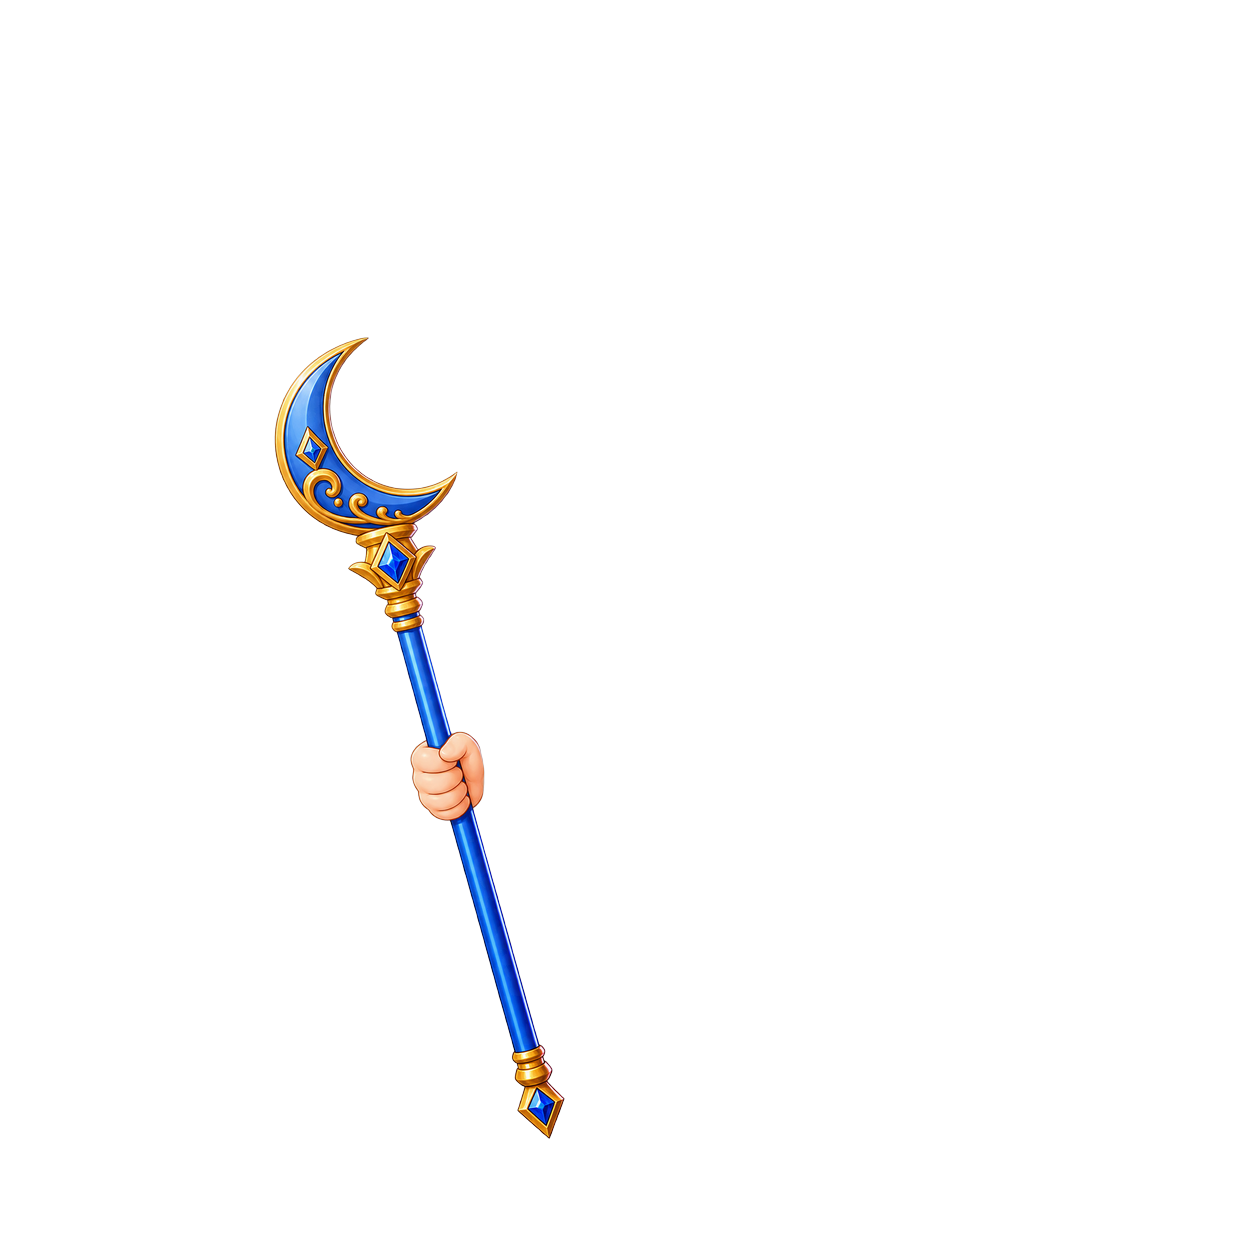
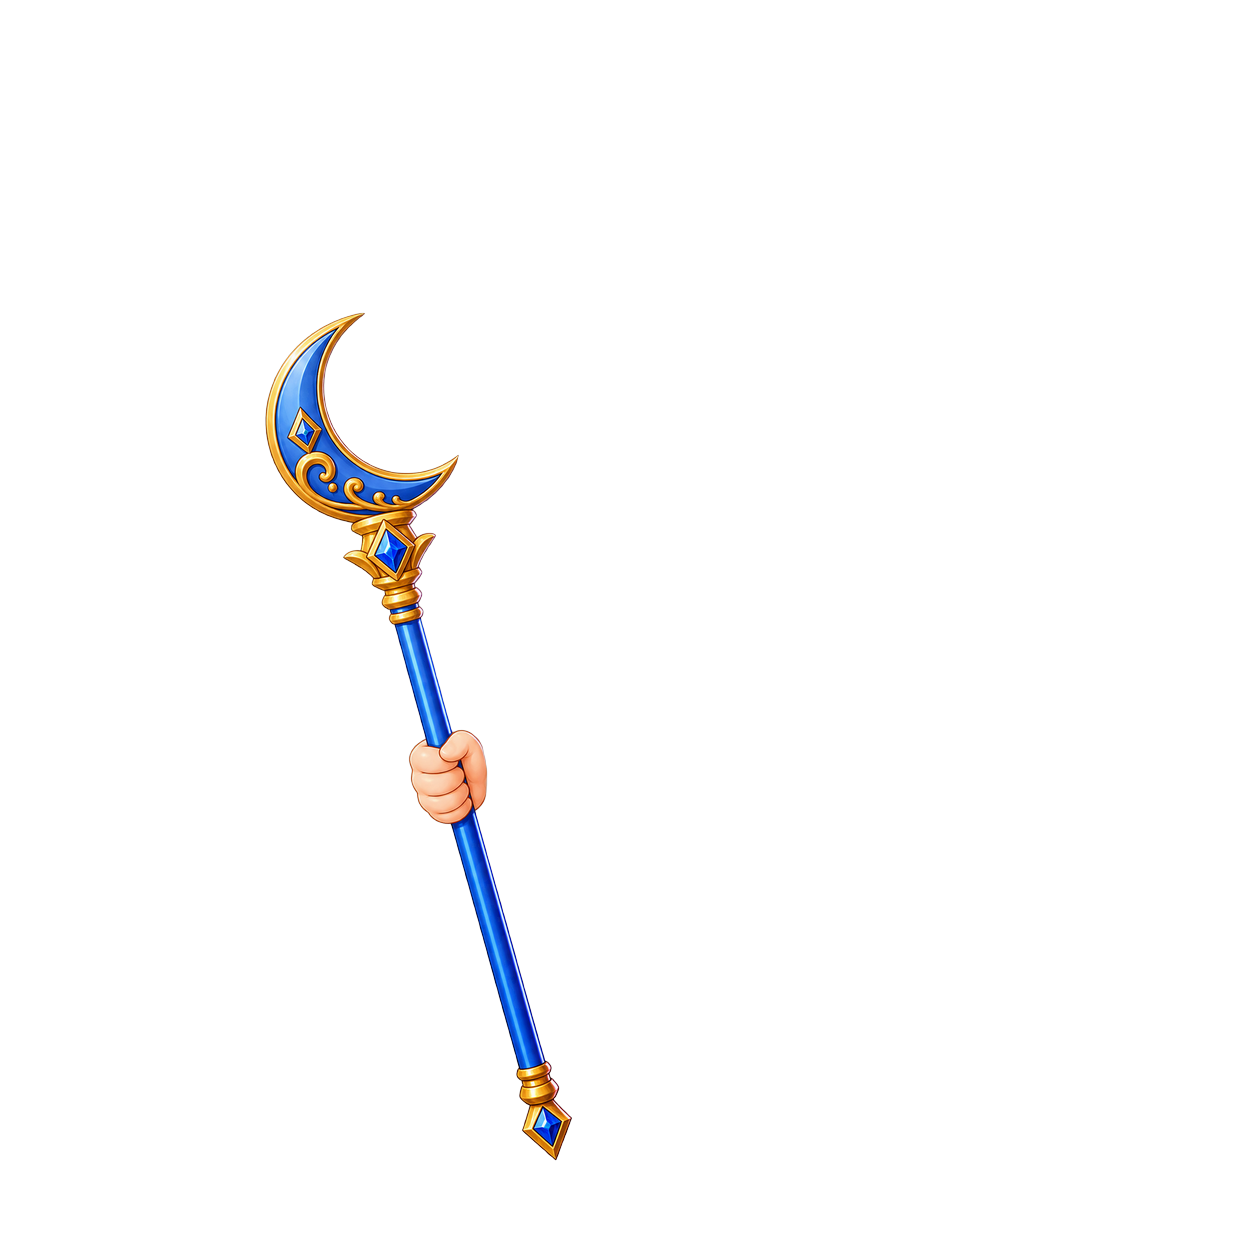
Register approved in-hand sword staff and scepter

Changed region(s): [[0.1866, 0.2488, 0.3732, 0.5287], [0.311, 0.5287, 0.4043, 0.7464], [0.4043, 0.7464, 0.4665, 0.933]]

diff --git a/scripts/register_in_hand_objects.py b/scripts/register_in_hand_objects.py
@@ -109,6 +109,17 @@ ROUND2_REFIT_0927 = {
 }
 QA_0927 = {"decided_on": "2026-09-27", "qa_report": "docs/qa/hand_objects_in_hand_2026-09-27.md",
            "qa_composite": "docs/qa/hand_objects_in_hand_2026-09-27.png"}
+QA_PASS_0927 = {
+    "decided_on": "2026-09-27",
+    "qa_report": "docs/qa/hand_objects_in_hand_2026-09-27-passing.md",
+    "qa_composite": "docs/qa/hand_objects_in_hand_2026-09-27-passing.png",
+    "prompt": "prompts/hand_objects_in_hand_pack_2026-09-27.md",
+    "items": {
+        "hand_object_004": ("004_silver_sword.png", 2, (629.3, 958.2), 100, 0.79, (-53, 12)),
+        "hand_object_008": ("008_blue_crescent_staff.png", 2, (906, 1012), 165, 0.46, (31, 303)),
+        "hand_object_010": ("010_horned_skull_scepter.png", 2, (623.6, 863.6), 98, 0.76, (-34, 116)),
+    },
+}
 
 # Batches fitted with scripts/fit_in_hand_render.py, applied in order after round 1.
 BATCHES = [
@@ -119,6 +130,7 @@ BATCHES = [
     {"folder": CANDIDATES_0927, **QA_0927, "items": ITEMS_0927},
     {"folder": SOURCES, **QA_0927, "items": ROUND1_REFIT_0927},
     {"folder": ROUND2, **QA_0927, "items": ROUND2_REFIT_0927},
+    {"folder": ROOT / "images" / "trait_candidates" / "hand_objects" / "in_hand_2026-09-27-pass", **QA_PASS_0927},
 ]
 
 
@@ -216,13 +228,22 @@ def main() -> int:
         entry["approved_on"] = batch["decided_on"]
         entry["qa_report"] = batch["qa_report"]
         entry["qa_composite"] = batch["qa_composite"]
-        entry["provenance"] = {
+        previous_provenance = entry.get("provenance", {})
+        prior_source_hash = previous_provenance.get("source_sha256")
+        current_source_hash = sha256(source)
+        if "superseded_provenance" in previous_provenance:
+            inherited_provenance = previous_provenance["superseded_provenance"]
+        elif prior_source_hash != current_source_hash:
+            inherited_provenance = previous_provenance
+        else:
+            inherited_provenance = None
+        provenance = {
             "origin": "generator_render_painted_in_hand",
             "trait": entry["provenance"].get("trait"),
-            "prompt": PROMPTS,
+            "prompt": batch.get("prompt", PROMPTS),
             "reference_path": base["path"],
             "source_path": source.relative_to(ROOT).as_posix(),
-            "source_sha256": sha256(source),
+            "source_sha256": current_source_hash,
             "source_dimensions": source_size,
             "pose": pose,
             "contact_feature": f"painted hand over the base's {base['feature']}",
@@ -232,6 +253,9 @@ def main() -> int:
             "intake_script": "scripts/register_in_hand_objects.py",
             "native_dimensions": list(CANVAS),
         }
+        if inherited_provenance:
+            provenance["superseded_provenance"] = inherited_provenance
+        entry["provenance"] = provenance
         name = Path(entry["path"]).name
         rule = requires[name]
         rule["reason"] = (

diff --git a/docs/qa/hand_objects_in_hand_2026-09-27-passing.md b/docs/qa/hand_objects_in_hand_2026-09-27-passing.md
@@ -1,0 +1,22 @@
+# Hand-object fit review: 2026-09-27 passing set
+
+Only items 004, 008, and 010 passed this review and were registered. The gold lantern was excluded: its generated fist shape did not cover the pose 002 base fist at an acceptable item size. It is not in the registered batch or the committed candidate-source folder.
+
+## Checks
+
+- Each registered layer is a 1254 x 1254 RGBA PNG with genuine transparency and no nontransparent pixels at the canvas edge.
+- Each source shows the item held by a painted, wristless hand. The hand covers the base fist in the pose 002 bare-body render.
+- Exact-size fit search found zero exposed core pixels of the base fist for all three selected candidates; the scepter fit has one antialiased fringe pixel outside the core.
+- The full item layer remains near its previous registered height: sword 0.976x, crescent staff 1.059x, scepter 1.119x.
+- Each was composited with `scripts/generate_777.py`'s production renderer on the bare pose 002 body and on all compatible pose 002 outfits (007, 008, 009). Close-ups show a clean hand/shaft contact and no duplicated base hand, wrist, or arm segment.
+- Full-body and grip contact sheets: `docs/qa/hand_objects_in_hand_2026-09-27-passing-full.png` and `docs/qa/hand_objects_in_hand_2026-09-27-passing.png`.
+
+## Registered transforms
+
+| Item | Painted hand center (source px) | Hand width | Scale | Offset (x, y) | Layer bounds (inclusive px) |
+|---|---:|---:|---:|---:|---:|
+| 004 silver sword | (629.3, 958.2) | 100 px | 0.79 | (-53, 12) | (251, 122)–(501, 882) |
+| 008 blue crescent staff | (906, 1012) | 165 px | 0.46 | (31, 303) | (265, 312)–(572, 1160) |
+| 010 horned skull scepter | (623.6, 863.6) | 98 px | 0.76 | (-34, 116) | (340, 317)–(549, 1012) |
+
+Transforms are reproduced by `scripts/register_in_hand_objects.py`. Source renders are preserved under `images/trait_candidates/hand_objects/in_hand_2026-09-27-pass/`.

diff --git a/prompts/hand_objects_in_hand_pack_2026-09-27.md b/prompts/hand_objects_in_hand_pack_2026-09-27.md
@@ -1,0 +1,15 @@
+# Hand objects painted in hand: passing replacements (2026-09-27)
+
+Create each item as a polished fantasy game sprite on a transparent RGBA canvas, with its gripping hand painted into the item layer. Match the Demigods item's established design, colors, details, and pose. Keep the hand wristless: no forearm, wrist, sleeve, cuff, or stump. The fingers must visibly grip the item's shaft or handle. Keep the hand and object connected, with the hand in front at the grip. The game fits the 1254 x 1254 output over the matching pose's base fist, so keep the painted hand compact and close to that fist's proportions. Do not add glow, shadow, backdrop, checkerboard, or unrelated props.
+
+## 004: silver sword
+
+Keep the narrow silver blade, blue gem guard, and dark blue wrapped grip. Add a compact, wristless closed hand around the hilt. Preserve the upright pose and the sword's original silhouette and size.
+
+## 008: blue crescent staff
+
+Keep the ornate blue and gold crescent head, long blue shaft, and gold foot. Add a wristless closed hand wrapped around the shaft in the pose 002 vertical grip. Preserve the item's upright silhouette and original size.
+
+## 010: horned skull scepter
+
+Keep the dark purple staff, horned skull ornament, and jeweled details. Add a compact, wristless closed hand wrapped around the shaft in the pose 002 vertical grip. Preserve the upright silhouette and keep the skull and horns within the item's original scale.
